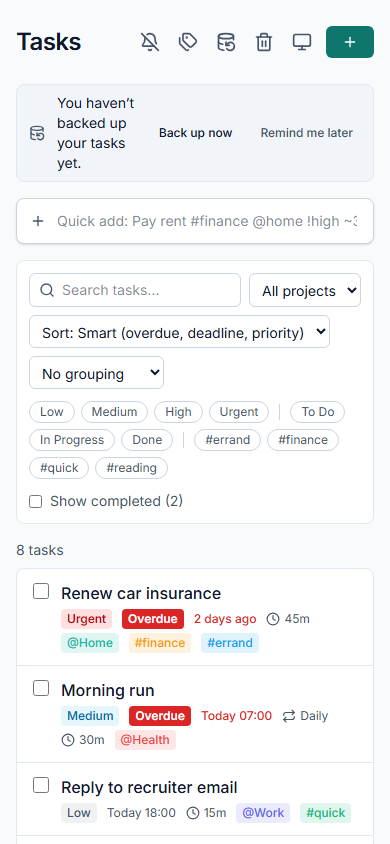
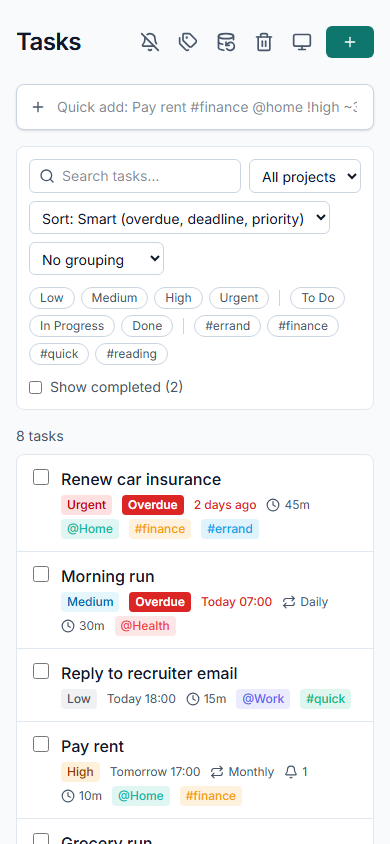
Portfolio README with deploy badge, architecture and shortcuts (#6)
- README: live-demo status badge next to the CI badge, a tech table with
  the reason for each part, an architecture overview (UI -> src/db ->
  IndexedDB, with the few places the UI still reads Dexie directly), a
  design-decisions link to SPEC.md, and a keyboard shortcuts table.
- Screenshot spec uses the shared e2e fixture and freezes the clock at
  FIXED_NOW, waits for fonts, clears hover and disables animations, so
  `npm run screenshots` regenerates the same images every run.
- Regenerated light, dark, editor and mobile screenshots from sample data.

diff --git a/e2e/screenshots.spec.ts b/e2e/screenshots.spec.ts
@@ -1,36 +1,55 @@
 // Regenerates the README images: `npm run screenshots`.
-import { expect, test, type Page } from '@playwright/test'
+// The clock is frozen at FIXED_NOW, so the sample data's relative dates ("Today", "In 3 days")
+// and the timestamps shown in the editor come out the same on every run.
+import type { Page } from '@playwright/test'
+import { expect, FIXED_NOW, test, type App } from './fixtures'
 
 /** Loads the demo tasks and hides the backup nudge, which would otherwise top every shot. */
-async function loadSample(page: Page) {
-  await page.goto('/')
-  await page.getByRole('button', { name: 'Load sample data' }).click()
-  // The load is one transaction, so the first rows to appear are the full set.
-  await expect(page.locator('li[data-task-id]').first()).toBeVisible()
-  await page.getByRole('button', { name: 'Remind me later' }).click()
+async function loadSample(app: App) {
+  // The fixture's clock keeps running from FIXED_NOW; stop it so "Added …" timestamps don't drift by seconds.
+  await app.page.clock.setFixedTime(FIXED_NOW)
+  await app.page.getByRole('button', { name: 'Load sample data' }).click()
+  // The load is one transaction, so the first row to appear means the full set is in.
+  await expect(app.taskRow('Prepare quarterly review slides')).toBeVisible()
+  await app.page.getByRole('button', { name: 'Remind me later' }).click()
+}
+
+/** Takes a shot that comes out the same every run: fonts loaded, no hover state, no animations. */
+async function shoot(page: Page, name: string) {
+  await page.mouse.move(0, 0)
+  await page.evaluate(() => document.fonts.ready)
+  await page.screenshot({ path: `${OUT}/${name}.png`, animations: 'disabled' })
 }
 
 const OUT = 'docs/screenshots'
 
-for (const scheme of ['light', 'dark'] as const) {
-  test(`list view (${scheme})`, async ({ page }) => {
-    await page.emulateMedia({ colorScheme: scheme })
-    await page.setViewportSize({ width: 1000, height: 900 })
-    await loadSample(page)
-    await page.screenshot({ path: `${OUT}/list-${scheme}.png` })
+for (const colorScheme of ['light', 'dark'] as const) {
+  test.describe(colorScheme, () => {
+    test.use({ colorScheme, viewport: { width: 1000, height: 900 } })
+
+    test(`list view (${colorScheme})`, async ({ app, page }) => {
+      await loadSample(app)
+      await shoot(page, `list-${colorScheme}`)
+    })
   })
 }
 
-test('task editor', async ({ page }) => {
-  await page.setViewportSize({ width: 1000, height: 1100 })
-  await loadSample(page)
-  await page.locator('li[data-task-id]').filter({ hasText: 'Prepare quarterly review slides' }).getByRole('button').click()
-  await expect(page.getByRole('dialog', { name: 'Edit task' })).toBeVisible()
-  await page.screenshot({ path: `${OUT}/editor.png` })
+test.describe('task editor', () => {
+  test.use({ viewport: { width: 1000, height: 1100 } })
+
+  test('task editor', async ({ app, page }) => {
+    await loadSample(app)
+    await app.taskRow('Prepare quarterly review slides').getByRole('button').click()
+    await expect(page.getByRole('dialog', { name: 'Edit task' })).toBeVisible()
+    await shoot(page, 'editor')
+  })
 })
 
-test('mobile', async ({ page }) => {
-  await page.setViewportSize({ width: 390, height: 844 })
-  await loadSample(page)
-  await page.screenshot({ path: `${OUT}/mobile.png` })
+test.describe('mobile', () => {
+  test.use({ viewport: { width: 390, height: 844 } })
+
+  test('mobile', async ({ app, page }) => {
+    await loadSample(app)
+    await shoot(page, 'mobile')
+  })
 })

diff --git a/README.md b/README.md
@@ -1,6 +1,7 @@
 # Task Tracker
 
 [![CI](https://github.com/TengkuAliff94/Task-Tracker/actions/workflows/ci.yml/badge.svg)](https://github.com/TengkuAliff94/Task-Tracker/actions/workflows/ci.yml)
+[![Live demo](https://img.shields.io/website?url=https%3A%2F%2Ftask-tracker-eta-blush.vercel.app&label=demo&up_message=online&down_message=offline&logo=vercel)](https://task-tracker-eta-blush.vercel.app)
 
 **Live demo: [task-tracker-eta-blush.vercel.app](https://task-tracker-eta-blush.vercel.app)**
 
@@ -14,6 +15,8 @@ A personal task tracker that runs entirely in the browser. There's no server and
 </p>
 <img src="docs/screenshots/mobile.png" alt="Mobile layout" width="260">
 
+The screenshots show the built-in sample data. To regenerate them after a UI change, run `npm run screenshots`. It uses Playwright with the clock pinned to a fixed date, so the images come out the same on every run.
+
 ## Features
 
 - **Quick-add bar**: `Pay rent #finance @home !high ~30m tomorrow 5pm` becomes a task with a tag, a project, a priority, an effort estimate and a deadline. Dates are parsed in plain language with [chrono-node](https://github.com/wanasit/chrono).
@@ -21,16 +24,40 @@ A personal task tracker that runs entirely in the browser. There's no server and
 - **Rich tasks**: Markdown descriptions, checklists, links and file attachments (up to about 10 MB, stored in IndexedDB), and effort estimates.
 - **Time features**: up to 3 reminders per task, at a fixed time or a set time before the deadline. Reminders you missed while the app was closed are listed in a banner. Tasks can repeat daily, weekly, monthly or yearly, or every N days or weeks.
 - **Safety nets**: deleting shows an Undo toast, and deleted tasks go to a Trash that empties itself after 30 days. You can back up everything to one JSON file (attachments included), and the app reminds you when it's been a while since your last backup.
-- **Keyboard shortcuts**: `N` quick-add, `/` search, `J`/`K` move, `E` edit, `X` toggle done, `?` help.
+- **Offline PWA**: installs like an app, and a service worker caches the app so it opens without a connection.
+- **Keyboard shortcuts**: see the [table below](#keyboard-shortcuts).
 - **Themes**: light and dark, following the system setting by default. Responsive down to phone widths.
 
 New here? Open the app and click **Load sample data** to see a filled-in list. It is also in the Backup & restore window.
 
 ## Tech
 
-React 19 · TypeScript · Vite · Tailwind CSS v4 · Dexie (IndexedDB) · vite-plugin-pwa · Vitest · Playwright
+| Part | Why |
+|---|---|
+| **React 19 + TypeScript** | Components suit a list-and-dialog UI. Types keep the task model (deadlines, reminders, recurrence) consistent across storage, logic and UI. |
+| **Vite** | Fast dev server and build, plus a plugin for the PWA. |
+| **Tailwind CSS v4** | Design tokens live as CSS variables in `src/index.css`, so the light and dark themes only swap values. |
+| **Dexie (IndexedDB)** | IndexedDB holds structured data and file attachments in the browser. Dexie adds transactions and live queries (`useLiveQuery`), so the list updates whenever data changes. |
+| **vite-plugin-pwa** | Generates the service worker and manifest for install and offline use. |
+| **chrono-node** | Parses plain-language dates in the quick-add bar ("tomorrow 5pm"). |
+| **Vitest + fake-indexeddb** | Unit tests for the pure logic, and for the repositories against an in-memory IndexedDB. |
+| **Playwright** | End-to-end flows in Chromium with a pinned clock, and the README screenshots. |
 
-All reads and writes go through the repository modules in `src/db/`, so a backend could replace IndexedDB later without changing the UI. Pure logic (overdue rules, recurrence, the quick-add parser, filters and sorting) lives in `src/lib/` and has unit tests. See [`docs/SPEC.md`](docs/SPEC.md) for the full spec and the decisions made during the build.
+## Architecture
+
+```
+UI (src/App.tsx, src/components/)  ->  storage module (src/db/)  ->  IndexedDB (via Dexie)
+              |
+              v
+   pure logic (src/lib/): quick-add parser, recurrence, overdue rules, reminders, filters, sorting
+```
+
+- **`src/db/`** is the only code that defines and opens the database. Tasks, projects and tags, attachments, backup and sample data each have a repository there (`tasks.ts`, `labels.ts`, `attachments.ts`, `backup.ts`, `sample.ts`). Components call these, so a backend could replace IndexedDB by swapping this module. A few small reads still use the Dexie handle that `src/db/db.ts` exports, such as task counts and the backup and reminder timestamps. The UI also uses Dexie's `useLiveQuery` for live updates, so a backend swap would need to replace those too.
+- **`src/lib/`** is plain TypeScript with no storage or React, so it's easy to unit test.
+
+## Design decisions
+
+The full spec and the decisions made during the build are in [`docs/SPEC.md`](docs/SPEC.md#decisions-made-during-build). Examples: recurrence needs a deadline, a late completion skips ahead instead of creating a backlog, missed reminders appear in a banner instead of a burst of notifications, and restoring a backup replaces everything.
 
 ## Getting started
 
@@ -57,6 +84,20 @@ npm run test:e2e
 ```
 
 `npm run test:e2e` starts the dev server on port 4173 (or reuses one that is already running) and gives each test a fresh browser with empty storage. If a test fails, open the report with `npx playwright show-report`. Test results go to `test-results/` and the report to `playwright-report/`, and git ignores both. New tests should import `test` and `expect` from `e2e/fixtures.ts`. Its `app` fixture opens the app and finds elements by role and label. Vitest only runs `src/**/*.test.ts`, so it skips the e2e files.
+
+## Keyboard shortcuts
+
+| Key | Action |
+|---|---|
+| `N` | Quick add a task |
+| `/` | Search |
+| `J` / `K` | Next / previous task |
+| `E` | Edit selected task |
+| `X` | Toggle selected task done |
+| `Esc` | Leave a field / clear selection |
+| `?` | Show shortcuts |
+
+Shortcuts are off while you type in a field or a window is open. Press `?` in the app to see this list.
 
 ## Deploying
 
